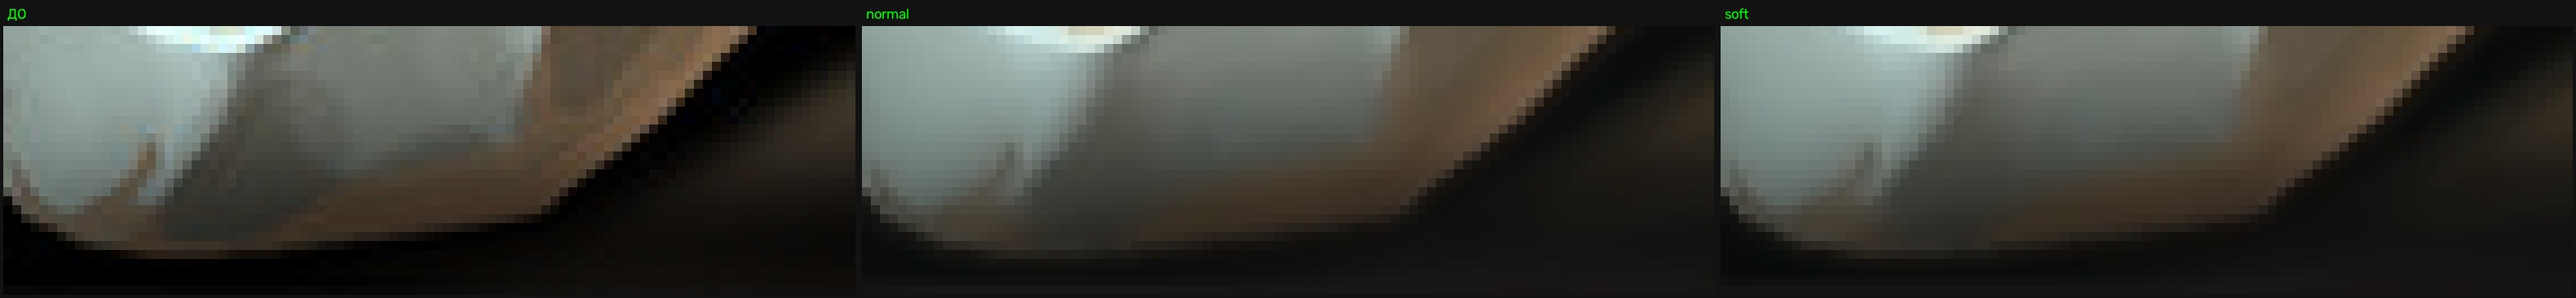
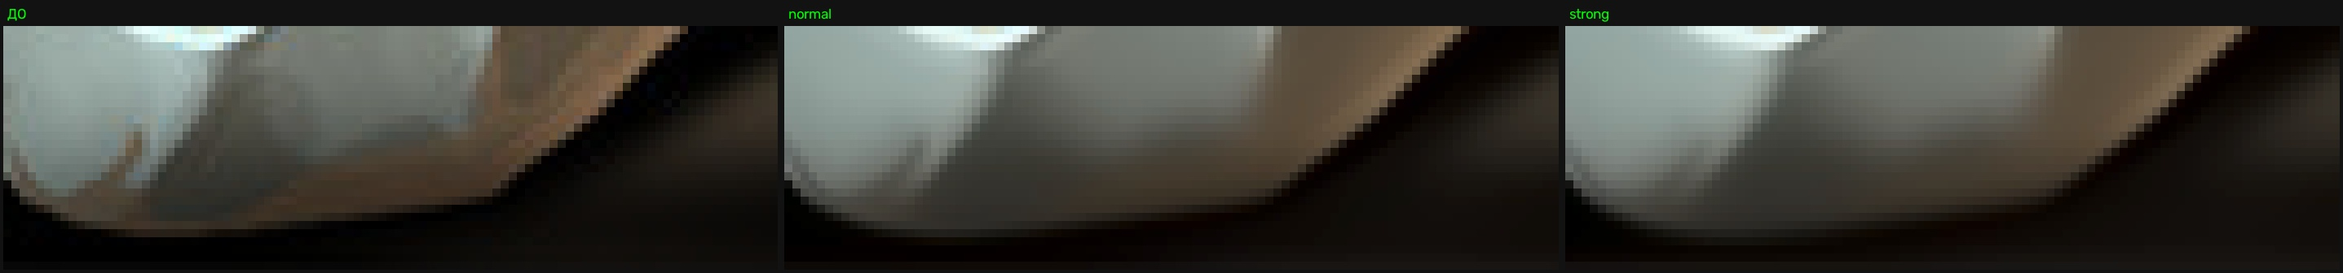
clean_icon: NLM engine as default (shape-preserving), freq/MS kept as alternatives

diff --git a/tools/README.md b/tools/README.md
@@ -102,36 +102,32 @@ python3 tools/clean_icon.py in.png -o out.png --chroma 1.0 --luma 0.8
 (грубое квантование JPEG); **цветной шум по хроме** (4:2:0); **звон у светлых
 контуров**.
 
-Как чистится (`clean_fill`) — **частотный способ**:
+Как чистится (`clean_fill`) — **NLM (non-local means)**:
 
-1. Яркость раскладывается на полосы σ = 1, 3, 7 px.
-2. В каждой полосе гасится только мелкая по амплитуде часть (`_shrink`,
-   мягкий порог). «Сыпь» и блочность JPEG — это ±3..8, они уходят; кромки,
-   скругления и градиенты дают десятки — они остаются ровно как были.
-3. Хрома чистится отдельно: медиана 5×5 + сглаживание.
+1. Каналы LAB чистятся по отдельности `cv2.fastNlMeansDenoising`.
+2. Каждый пиксель заменяется средним по похожим на его окружение фрагментам
+   всего кадра (вес — по схожести). На заливке похожих фрагментов много, шум
+   усредняется; кромка, скругление и плавная тень остаются как были, потому что
+   непохожие фрагменты получают вес ≈ 0.
+3. Нет «платофикации» — значит нет ни ступенек на скруглениях, ни «надрезов»
+   на гранях (этим грешат mean shift и медиана, они остались как альтернатива).
 
-Почему не mean shift / медиана, хотя они тоже убирают шум: они схлопывают
-заливку в «плато», и на скруглениях появляются ступеньки, а на гранях —
-«надрезы» (видно на нижней грани в старых версиях). Частотный способ форму
-не меняет вообще: резкость кромок остаётся 61.2 → 62.6, звон падает
-3.12 → 2.51.
+Параметры: `hL` (сила по яркости), `hC` (по цвету), `t`/`s` — окно фрагмента и
+поиска. Режимы: `soft` (hL 8), **`normal` (hL 12, по умолчанию)**, `strong`
+(hL 16), `max` (hL 22). `--soft-edges 0..1` — доп. смягчение кромок.
+Другие движки: `--preset freq` (частотный) и `--protect N` / `--iters N`
+(mean shift).
 
-Режимы: `soft` (мягче), **`normal` (по умолчанию)**, `strong`, `max`.
-`--soft-edges 0..1` — дополнительное смягчение кромок (0 — как есть).
-Старый режим на mean shift (`clean_fill_ms`) остался для сравнения:
-включается через `--protect N` / `--iters N`.
-
-| метрика | до | normal |
-|---|---|---|
-| шум в глубине заливок | 0.70 | **0.26** |
-| шум на заливках (в среднем) | 1.29 | **0.67** |
-| цветной шум a/b | 0.31 | 0.24 |
-| звон у контуров | 3.12 | **2.51** |
-| резкость контуров | 61.2 | 62.6 (не изменена) |
+| метрика | до | normal | strong |
+|---|---|---|---|
+| шум яркости | 0.29 | **0.13** | 0.16 |
+| шум на заливках | 1.29 | 0.65 | **0.53** |
+| цветной шум a/b | 0.31 | 0.20 | 0.20 |
+| резкость контуров | 61.2 | 67.4 | 70.8 |
 
 Сравнения: `samples/icon_clean_compare.jpg` (вся иконка) и
-`samples/icon_clean_zoom.jpg` (нижняя грань, ×11 — то место, где раньше
-появлялись «надрезы»).
+`samples/icon_clean_zoom.jpg` (нижняя грань, ×10 — там раньше появлялись
+«надрезы»).
 
 ## Нарезка иконок с обводкой
 
